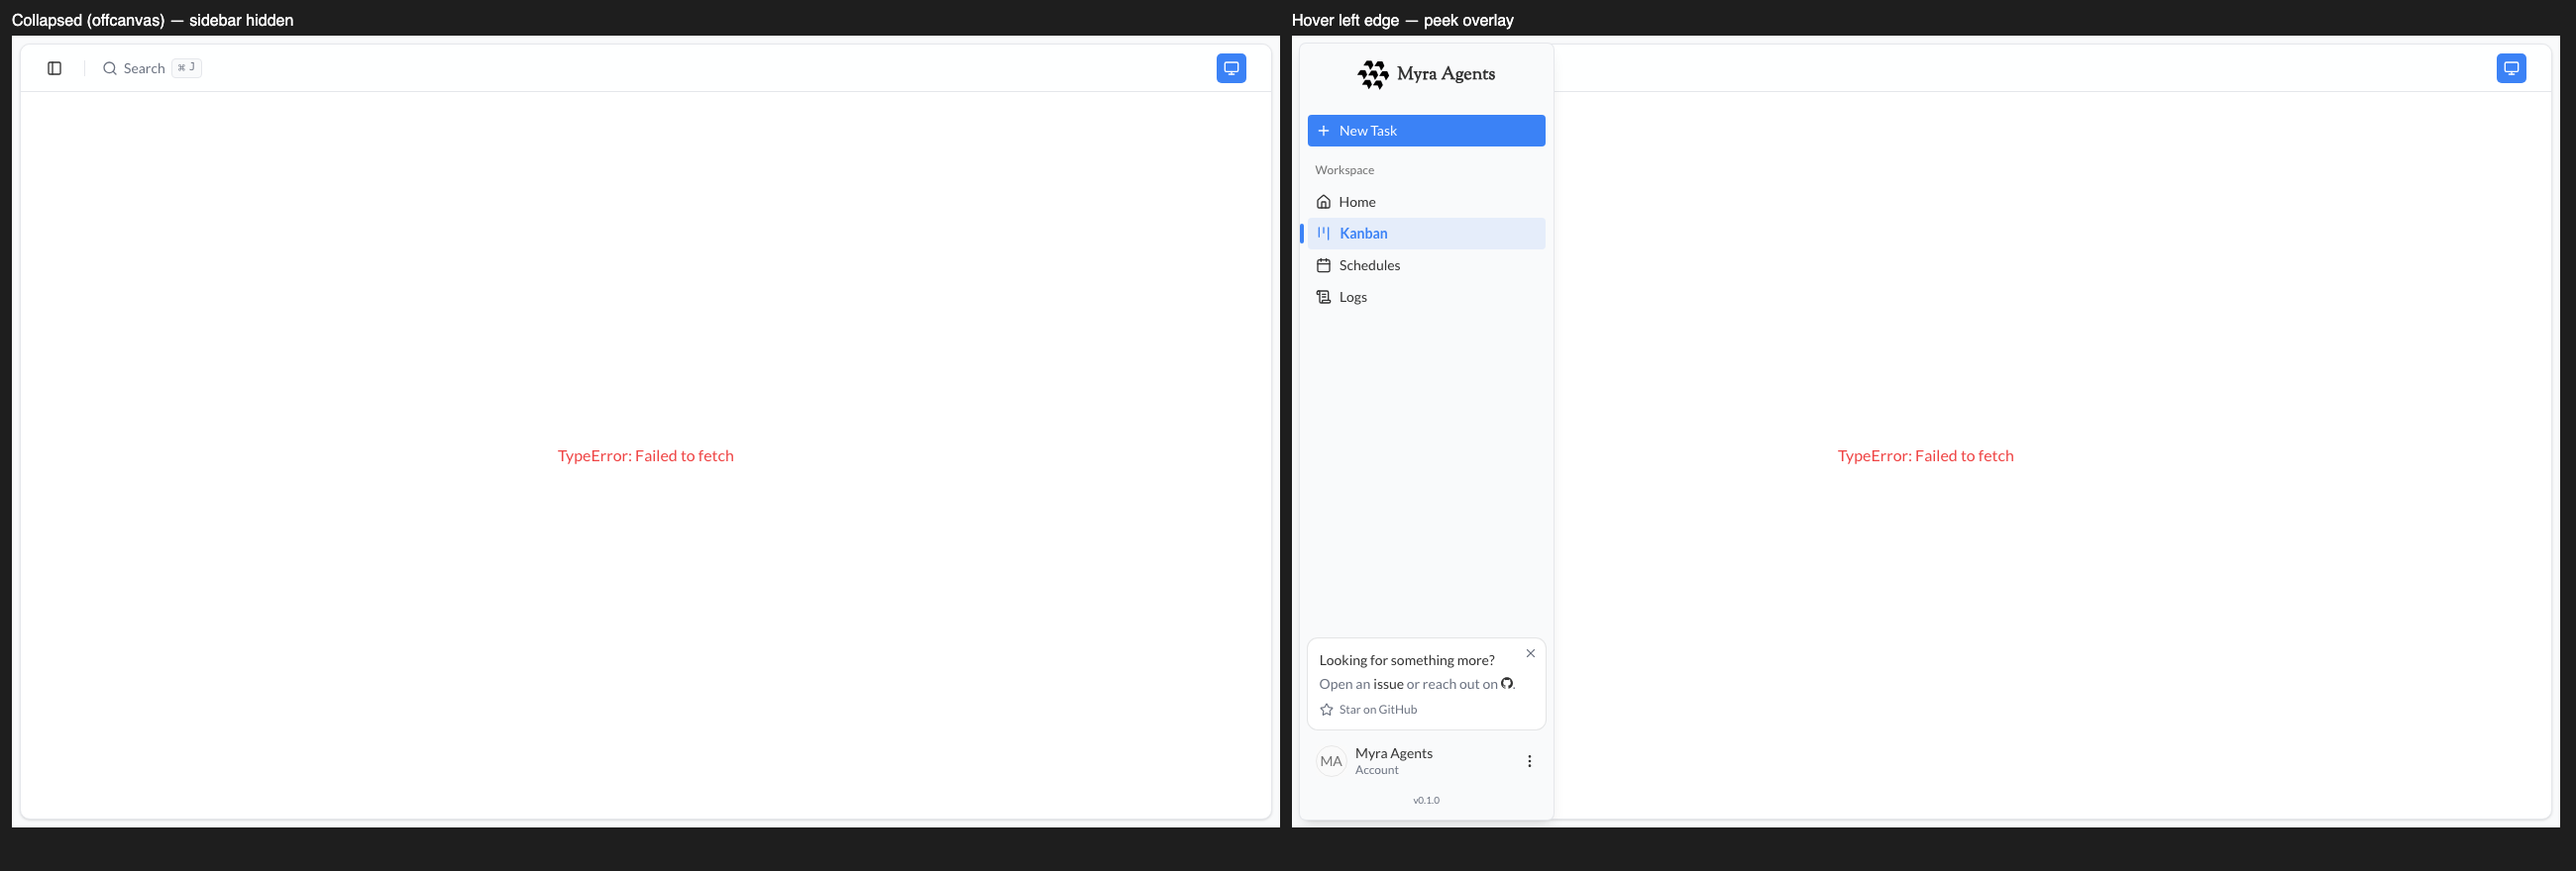
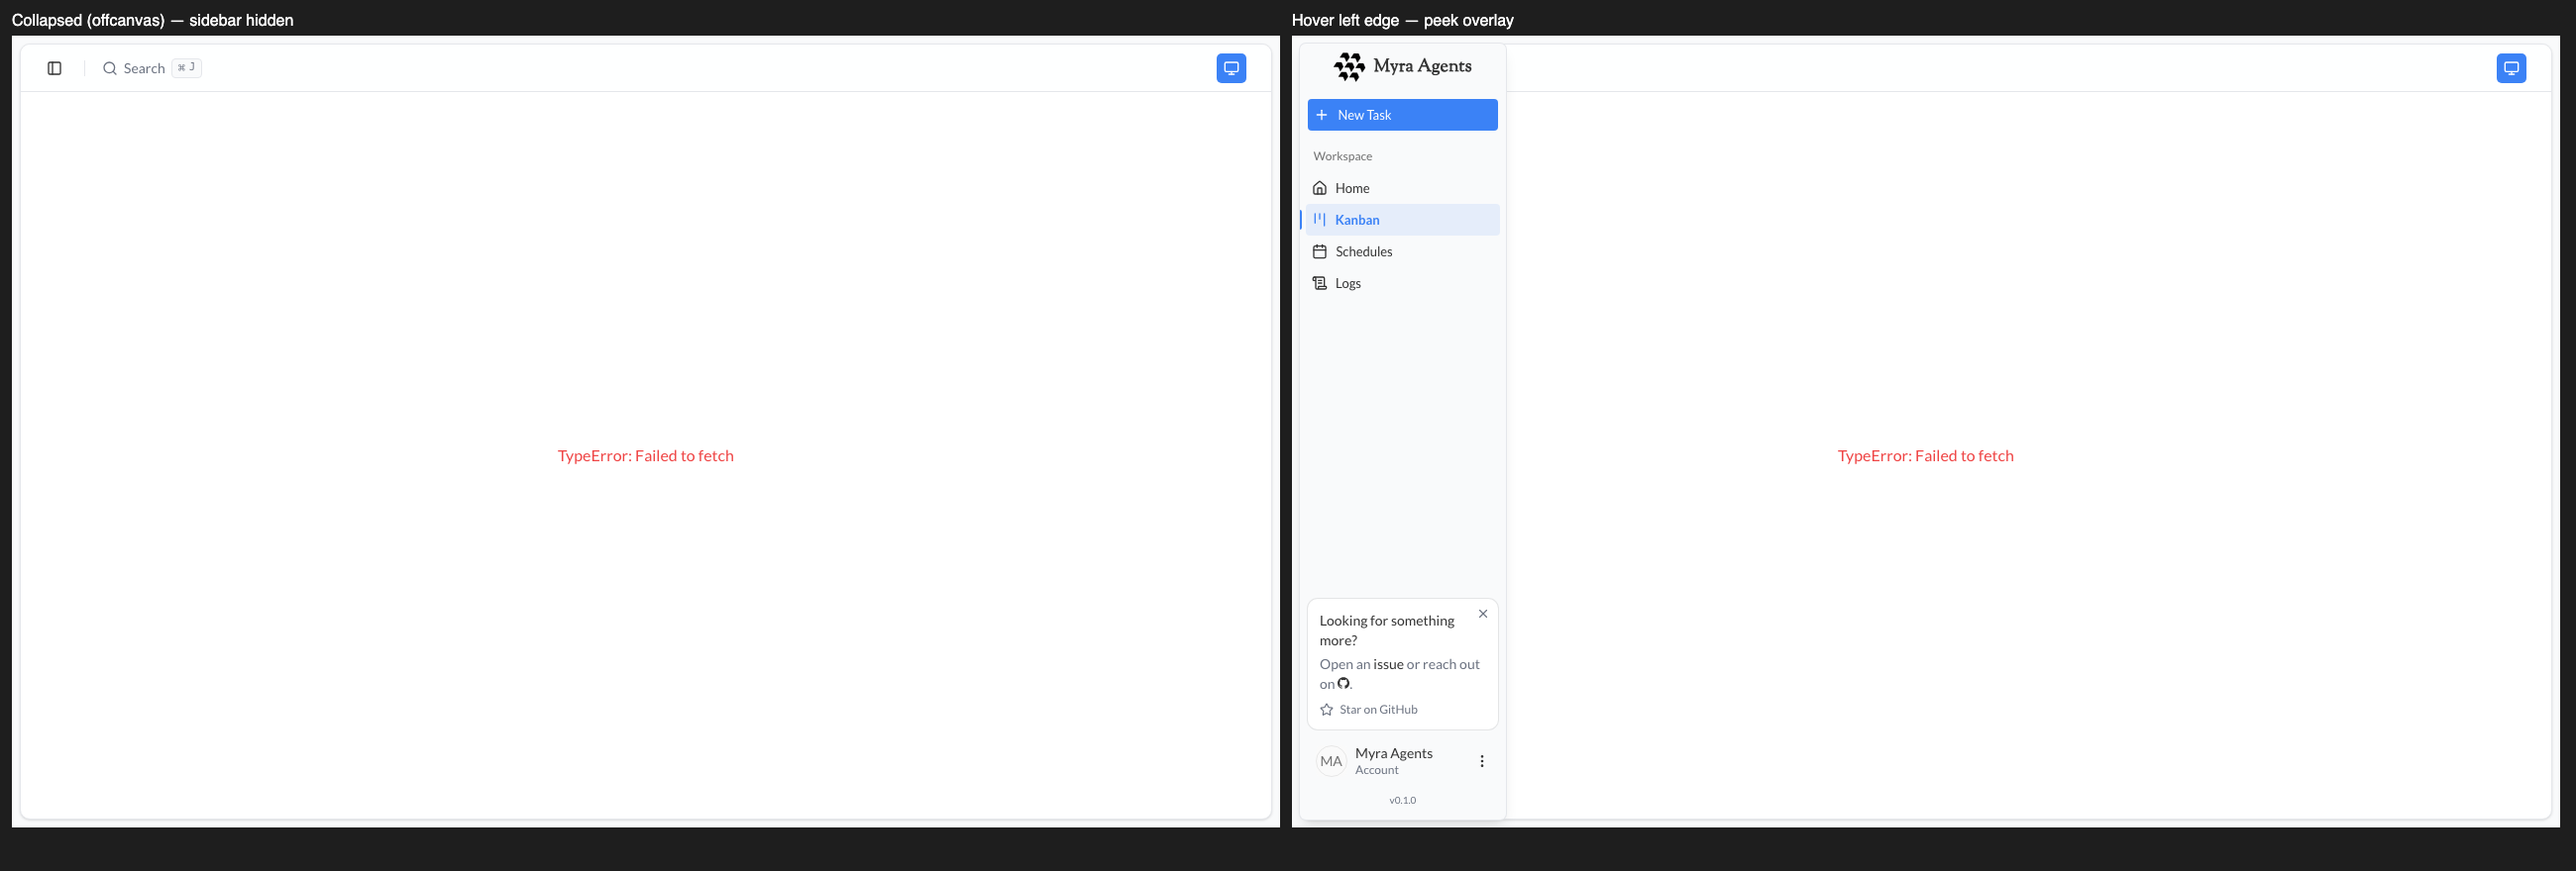
feat(sidebar): condense the hover-peek panel
Float a narrower (14rem vs the docked 17rem), denser panel on peek —
tighter row height, smaller text and icons — so the overlay reads as a
quick-glance nav like Claude Code desktop rather than the full docked
sidebar. Density is scoped to data-peek only; the docked sidebar is
unchanged.

Changed region(s): [[0.4985, 0.0614, 0.6231, 0.3375], [0.4985, 0.7057, 0.5919, 0.7977], [0.5608, 0.2455, 0.6231, 0.2761]]

diff --git a/src/components/ui/sidebar.tsx b/src/components/ui/sidebar.tsx
@@ -29,6 +29,8 @@ const SIDEBAR_COOKIE_MAX_AGE = 60 * 60 * 24 * 7
 const SIDEBAR_WIDTH = "16rem"
 const SIDEBAR_WIDTH_MOBILE = "18rem"
 const SIDEBAR_WIDTH_ICON = "3rem"
+// Hover-peek floats a narrower, denser panel than the docked sidebar.
+const SIDEBAR_WIDTH_PEEK = "14rem"
 const SIDEBAR_KEYBOARD_SHORTCUT = "b"
 
 type SidebarContextProps = {
@@ -133,6 +135,7 @@ function SidebarProvider({
           {
             "--sidebar-width": SIDEBAR_WIDTH,
             "--sidebar-width-icon": SIDEBAR_WIDTH_ICON,
+            "--sidebar-width-peek": SIDEBAR_WIDTH_PEEK,
             ...style,
           } as React.CSSProperties
         }
@@ -284,8 +287,8 @@ function Sidebar({
         onClickCapture={isPeeking ? closePeek : undefined}
         className={cn(
           "fixed inset-y-0 z-10 hidden h-svh w-(--sidebar-width) transition-[left,right,width] duration-200 ease-linear data-[side=left]:left-0 data-[side=left]:group-data-[collapsible=offcanvas]:left-[calc(var(--sidebar-width)*-1)] data-[side=right]:right-0 data-[side=right]:group-data-[collapsible=offcanvas]:right-[calc(var(--sidebar-width)*-1)] md:flex",
-          // Hover-peek: float the offcanvas sidebar back in, above the content.
-          "group-data-[peek=true]:z-[60] data-[side=left]:group-data-[peek=true]:!left-0 data-[side=right]:group-data-[peek=true]:!right-0",
+          // Hover-peek: float a narrower panel back in, above the content.
+          "group-data-[peek=true]:z-[60] group-data-[peek=true]:w-(--sidebar-width-peek) data-[side=left]:group-data-[peek=true]:!left-0 data-[side=right]:group-data-[peek=true]:!right-0",
           // Adjust the padding for floating and inset variants.
           variant === "floating" || variant === "inset"
             ? "p-2 group-data-[collapsible=icon]:w-[calc(var(--sidebar-width-icon)+(--spacing(4))+2px)]"
@@ -299,7 +302,12 @@ function Sidebar({
           data-slot="sidebar-inner"
           className={cn(
             "flex size-full flex-col bg-sidebar group-data-[variant=floating]:rounded-lg group-data-[variant=floating]:shadow-sm group-data-[variant=floating]:ring-1 group-data-[variant=floating]:ring-sidebar-border",
-            "group-data-[peek=true]:rounded-lg group-data-[peek=true]:shadow-lg group-data-[peek=true]:ring-1 group-data-[peek=true]:ring-sidebar-border"
+            "group-data-[peek=true]:rounded-lg group-data-[peek=true]:shadow-lg group-data-[peek=true]:ring-1 group-data-[peek=true]:ring-sidebar-border",
+            // Condensed density while peeking: tighter rows, smaller text/icons.
+            "group-data-[peek=true]:text-[13px]",
+            "group-data-[peek=true]:[&_[data-slot=sidebar-menu-button]]:h-8 group-data-[peek=true]:[&_[data-slot=sidebar-menu-button]]:gap-2 group-data-[peek=true]:[&_[data-slot=sidebar-menu-button]]:p-1.5 group-data-[peek=true]:[&_[data-slot=sidebar-menu-button]]:text-[13px]",
+            "group-data-[peek=true]:[&_[data-slot=sidebar-menu-button]_svg]:size-4",
+            "group-data-[peek=true]:[&_[data-slot=sidebar-header]]:gap-1 group-data-[peek=true]:[&_[data-slot=sidebar-content]]:gap-1 group-data-[peek=true]:[&_[data-slot=sidebar-group]]:p-1.5"
           )}
         >
           {children}
